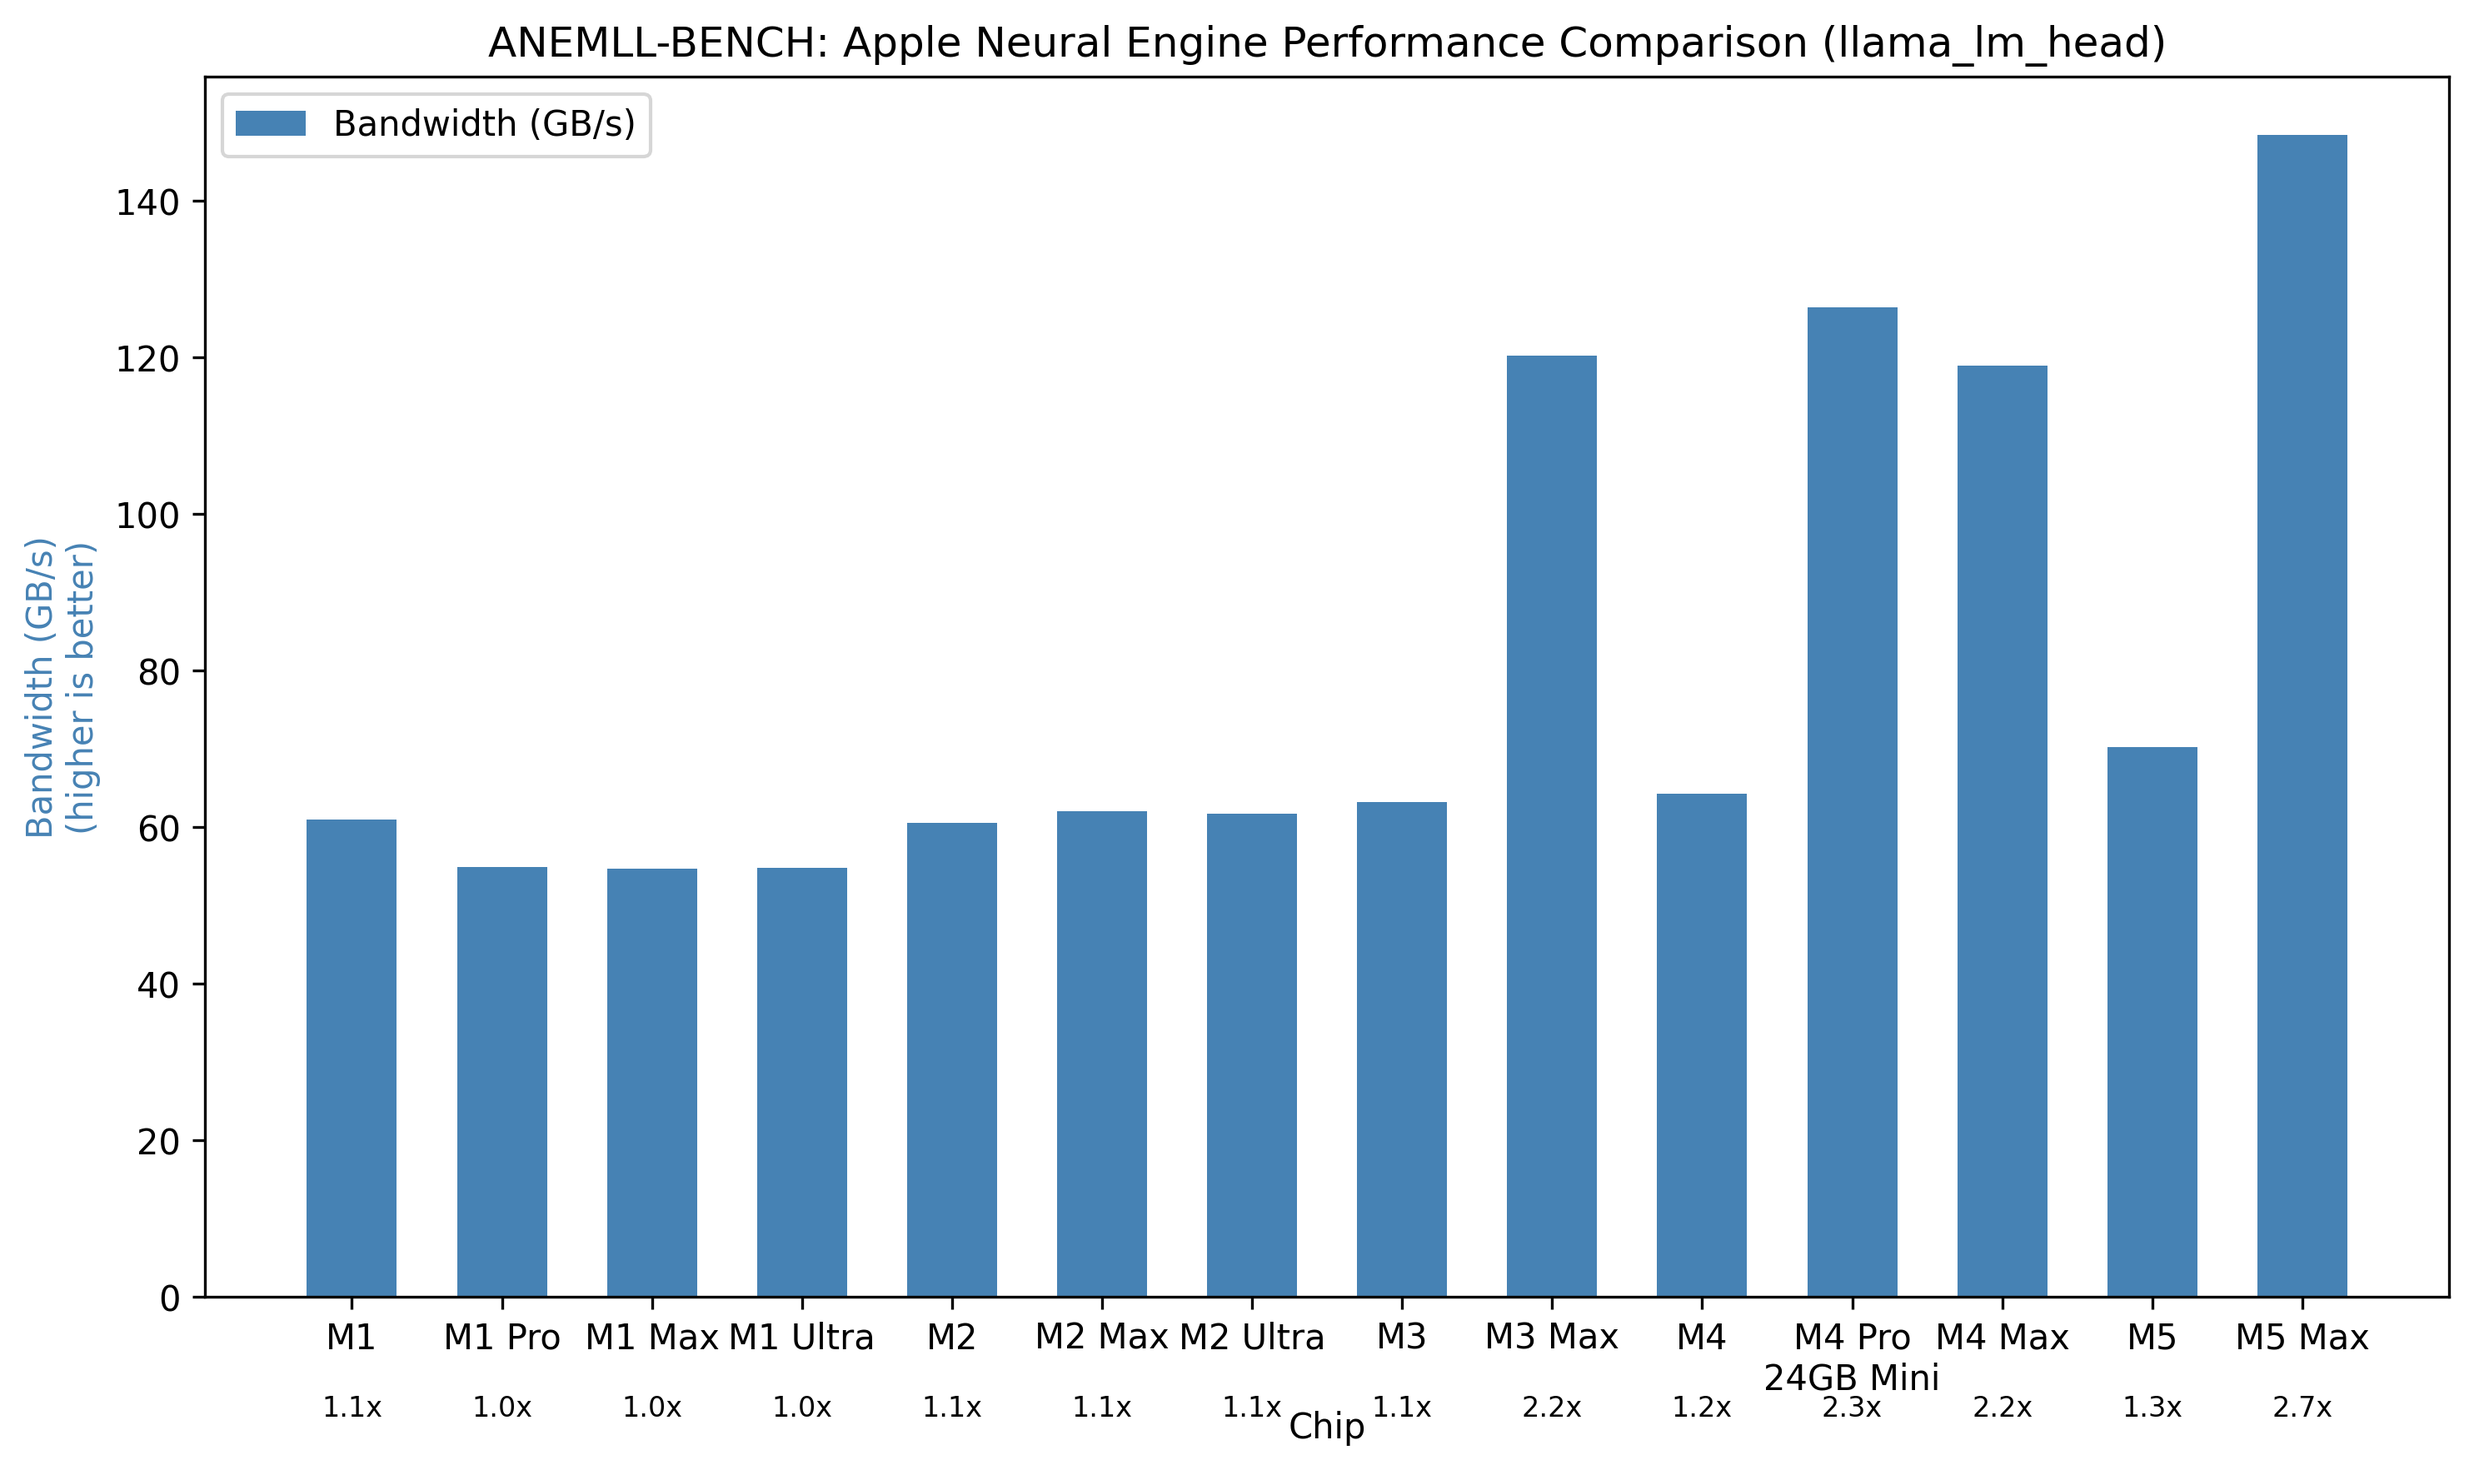
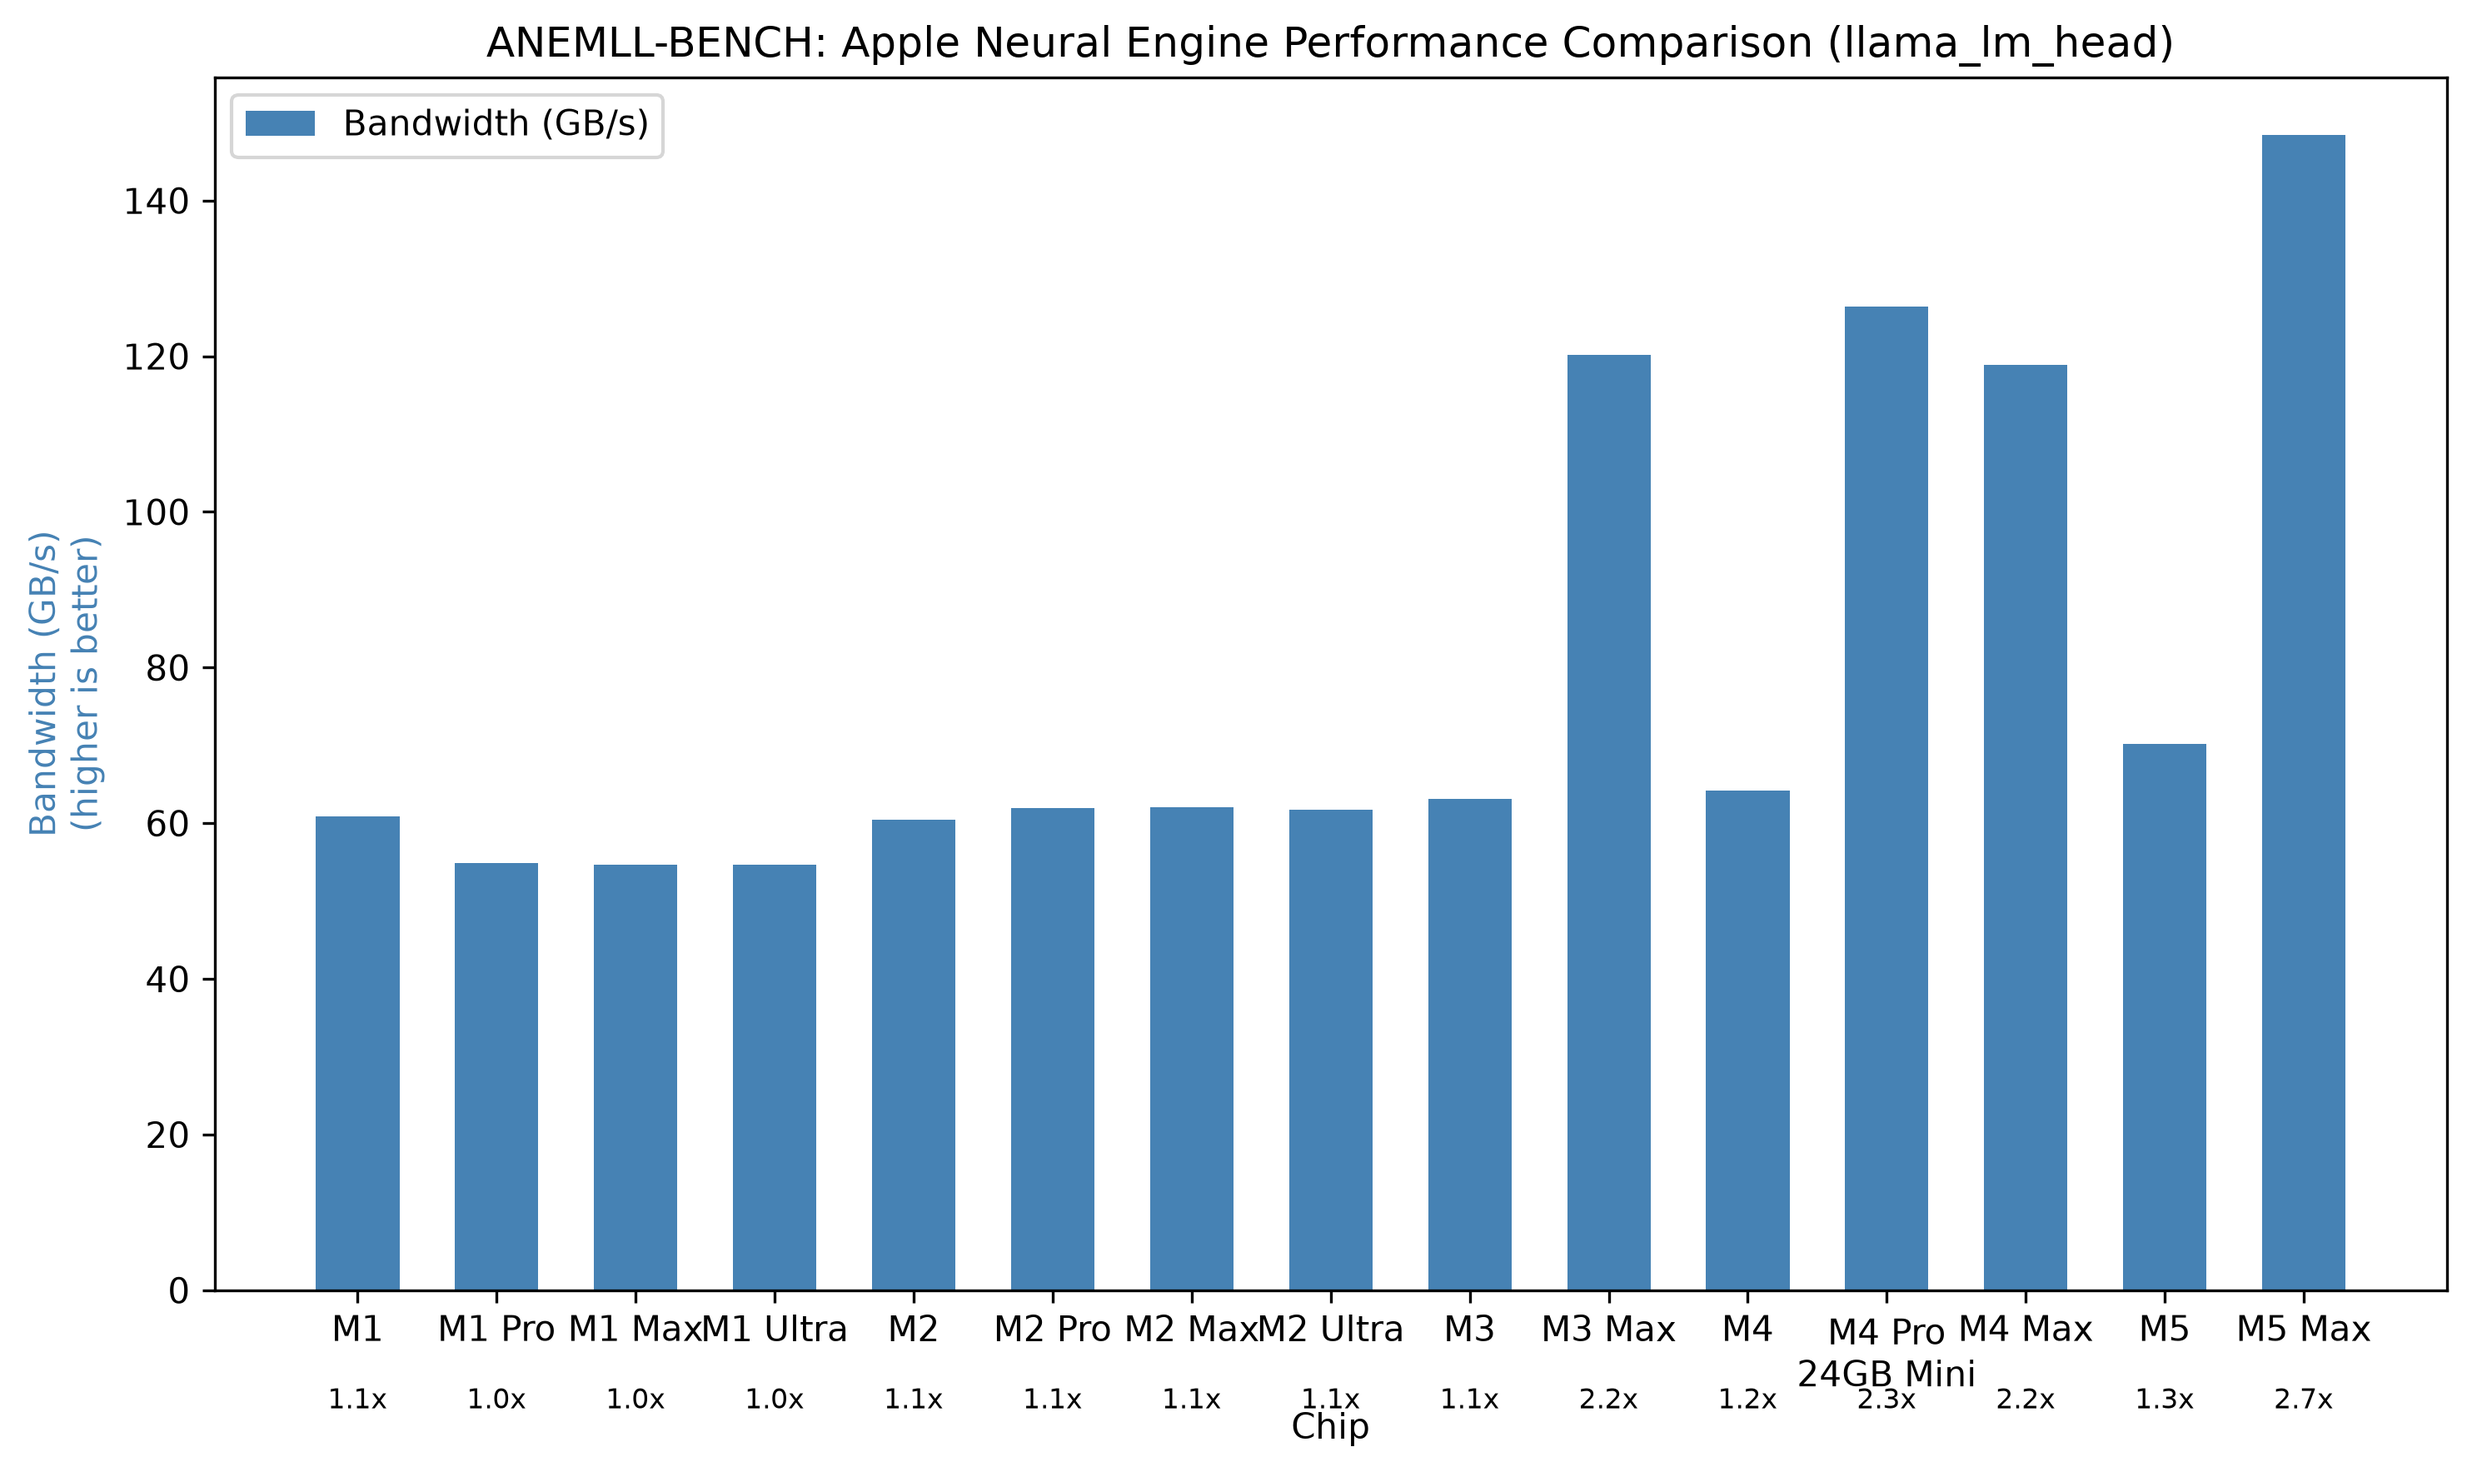
Add M2 Pro published results from issue #11 (#12)
Include the verified MacBook Pro 16-inch M2 Pro (32 GB) key findings
in the llama_lm_head table (61.93 GB/s, 6.66 ms), mark M2 PRO covered
in the README, and regenerate the chip comparison chart.

Changed region(s): [[0.0, 0.0, 0.9919, 0.9972], [0.186, 0.5609, 0.217, 0.5921]]

diff --git a/examples/plot_chip_comparison.py b/examples/plot_chip_comparison.py
@@ -28,9 +28,9 @@ def main():
     args = parser.parse_args()
 
     # Sample data from llama_lm_head model benchmarks
-    chips = ['M1', 'M1 Pro', 'M1 Max', 'M1 Ultra', 'M2', 'M2 Max', 'M2 Ultra', 'M3', 'M3 Max', 'M4', 'M4 Pro\n24GB Mini', 'M4 Max', 'M5', 'M5 Max']
-    bandwidth = [60.87, 54.90, 54.62, 54.72, 60.45, 62.01, 61.68, 63.10, 120.22, 64.18, 126.36, 118.88, 70.21, 148.39]  # GB/s (llama_lm_head)
-    bandwidth_factor = ['1.1x', '1.0x', '1.0x', '1.0x', '1.1x', '1.1x', '1.1x', '1.1x', '2.2x', '1.2x', '2.3x', '2.2x', '1.3x', '2.7x']
+    chips = ['M1', 'M1 Pro', 'M1 Max', 'M1 Ultra', 'M2', 'M2 Pro', 'M2 Max', 'M2 Ultra', 'M3', 'M3 Max', 'M4', 'M4 Pro\n24GB Mini', 'M4 Max', 'M5', 'M5 Max']
+    bandwidth = [60.87, 54.90, 54.62, 54.72, 60.45, 61.93, 62.01, 61.68, 63.10, 120.22, 64.18, 126.36, 118.88, 70.21, 148.39]  # GB/s (llama_lm_head)
+    bandwidth_factor = ['1.1x', '1.0x', '1.0x', '1.0x', '1.1x', '1.1x', '1.1x', '1.1x', '1.1x', '2.2x', '1.2x', '2.3x', '2.2x', '1.3x', '2.7x']
 
     # Option 1: Use plot_chip_comparison directly
     print("Demonstrating direct use of plot_chip_comparison function...\n")

diff --git a/Results.MD b/Results.MD
@@ -20,13 +20,13 @@ Higher memory bandwidth and lower inference time indicate better performance.
 
 The chart below shows performance comparison across Apple Silicon generations for the `llama_lm_head` model:
 
-![Apple Silicon Performance Comparison](./reports/chip_comparison_llama_lm_head.png?v=20251029_v1)
+![Apple Silicon Performance Comparison](./reports/chip_comparison_llama_lm_head.png?v=20260901_v1)
 
 As shown in the visualization:
 - **M4 Series** chips demonstrate approximately 2.3x higher memory bandwidth compared to M1 series
 - **M3 Max** shows impressive memory bandwidth (2.2x over M1 series) and excellent inference performance (1.9x faster than M1)
 - **Base M2** has slightly better bandwidth than M1 series but slightly worse inference time
-- The M2 Max/Ultra and M4 base model show modest improvements, while M3 Max and high-end M4 variants represent significant leaps in performance
+- The M2 Pro/Max/Ultra and M4 base model show modest improvements, while M3 Max and high-end M4 variants represent significant leaps in performance
 - **M5** shows solid performance with good memory bandwidth improvement (1.3x) and faster inference times (1.2x), positioning it competitively between M2 and M3 Max performance levels
 - **M5 Max** achieves the highest memory bandwidth of all chips tested (148.39 GB/s, 2.7x over M1 Pro), surpassing even M4 Pro, with excellent inference time (3.71 ms, 2.0x factor) matching M4 Pro/Max performance
 
@@ -41,6 +41,7 @@ As shown in the visualization:
 | M1 Max | 54.62 | 7.61 | 1.0x | 1.0x |
 | M1 Ultra | 54.72 | 7.58 | 1.0x | 1.0x |
 | M2 | 60.45 | 8.67 | 1.1x | 0.9x |
+| M2 Pro | 61.93 | 6.66 | 1.1x | 1.1x |
 | M2 Max | 62.01 | 6.64 | 1.1x | 1.1x |
 | M2 Ultra | 61.68 | 6.70 | 1.1x | 1.1x |
 | M3 | 63.10 | 6.95 | 1.2x | 1.1x |
@@ -55,7 +56,7 @@ As shown in the visualization:
 
 1. **Neural Engine Scaling**:
    - All M1 variants (Pro, Max, Ultra) show very similar performance, suggesting limited Neural Engine scaling in first-generation Apple Silicon
-   - Similar pattern with M2 Ultra vs M2 Max
+   - Similar pattern with M2 Pro/Max/Ultra (no meaningful ANE scaling across those variants)
    - The base M2 chip has slightly better bandwidth than M1 series, but surprisingly worse inference time
    - M3 Max shows excellent memory bandwidth utilization and very good inference times, competitive with M4 series
    - M4 series demonstrates slightly better performance across both metrics compared to M3 Max
@@ -73,7 +74,7 @@ As shown in the visualization:
 
 3. **Inference Time Improvements**:
    - Base M2 actually performs slightly worse (0.9x) than M1 series for inference time
-   - M2 Max/Ultra models show modest improvements (1.1x) over M1 series
+   - M2 Pro/Max/Ultra models show modest improvements (1.1x) over M1 series
    - M3 Max shows impressive inference performance (3.98 ms), nearly as fast as the best M4 chips
    - High-end M4 chips are only marginally faster (3.85-3.87 ms) than the M3 Max
    - This suggests the major architectural leap for Neural Engine inference performance occurred with the M3 generation
@@ -93,6 +94,7 @@ As shown in the visualization:
 | M4 | 64 | 120 | 53% |
 | M3 | 63 | 100 | 63% |
 | M2 Max | 62 | 400 | 16% |
+| M2 Pro | 62 | 200 | 31% |
 | M2 Ultra | 62 | 800 | 8% |
 | M1 | 61 | 68 | 89% |
 | M2 | 60 | 100 | 60% |

diff --git a/README.md b/README.md
@@ -36,7 +36,7 @@ ANEMLL-Bench is part on ANEMLL Open Source Project [anemll.com](https://anemll.c
 
 ## 📊 [View Benchmark Results](./Results.MD) 📊
 
-[![Apple Silicon Performance Comparison](./reports/chip_comparison_llama_lm_head.png?v=20251029_v1)](./Results.MD)
+[![Apple Silicon Performance Comparison](./reports/chip_comparison_llama_lm_head.png?v=20260901_v1)](./Results.MD)
 
 Check out our latest [benchmark results](./Results.MD) comparing performance across different Apple Silicon chips (M1, M2, M3, M4, M5 series).
 
@@ -52,6 +52,7 @@ Check out our latest [benchmark results](./Results.MD) comparing performance acr
 | M4 | 64 | 120 | 53% |
 | M3 | 63 | 100 | 63% |
 | M2 Max | 62 | 400 | 16% |
+| M2 Pro | 62 | 200 | 31% |
 | M2 Ultra | 62 | 800 | 8% |
 | M1 | 61 | 68 | 89% |
 | M2 | 60 | 100 | 60% |
@@ -79,7 +80,7 @@ Check out our latest [benchmark results](./Results.MD) comparing performance acr
         </td>
         <td>
           ✓ M2 ✅<br>
-          ✓ M2 PRO<br>
+          ✓ M2 PRO ✅<br>
           ✓ M2 MAX ✅<br>
           ✓ M2 ULTRA ✅
         </td>
